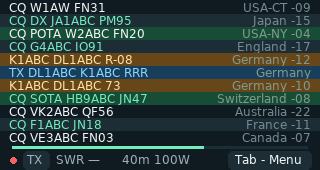
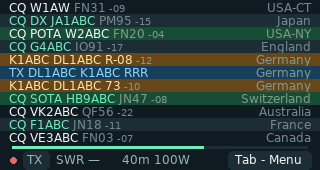
Place smaller FT8 signal reports after the Maidenhead locator

diff --git a/CHANGELOG.md b/CHANGELOG.md
@@ -3,7 +3,7 @@
 ## 0.16.5 — 2026-11-23
 
 - Simplify the FT8 footer with compact rounded controls; show TX and SWR only while armed or transmitting. Preserve its height and red transmit progress.
-- Put decode signal strength after the region label, with both details dimmed so the message remains prominent.
+- Put decode signal strength directly after the Maidenhead grid locator in a smaller font; dim the locator and signal details so the message remains prominent. Keep country/state separately on the right.
 - Give the RRR acknowledgment stage four unanswered attempts, including hunted stations, before moving on. Continue immediately when the other station sends 73.
 - Re-send a final 73 when a recently completed station repeats RRR/RR73, then resume the interrupted exchange without resetting its attempt count or creating another QSO log. Bound acknowledgment history and queued replies; normal TX safety checks still apply.
 
